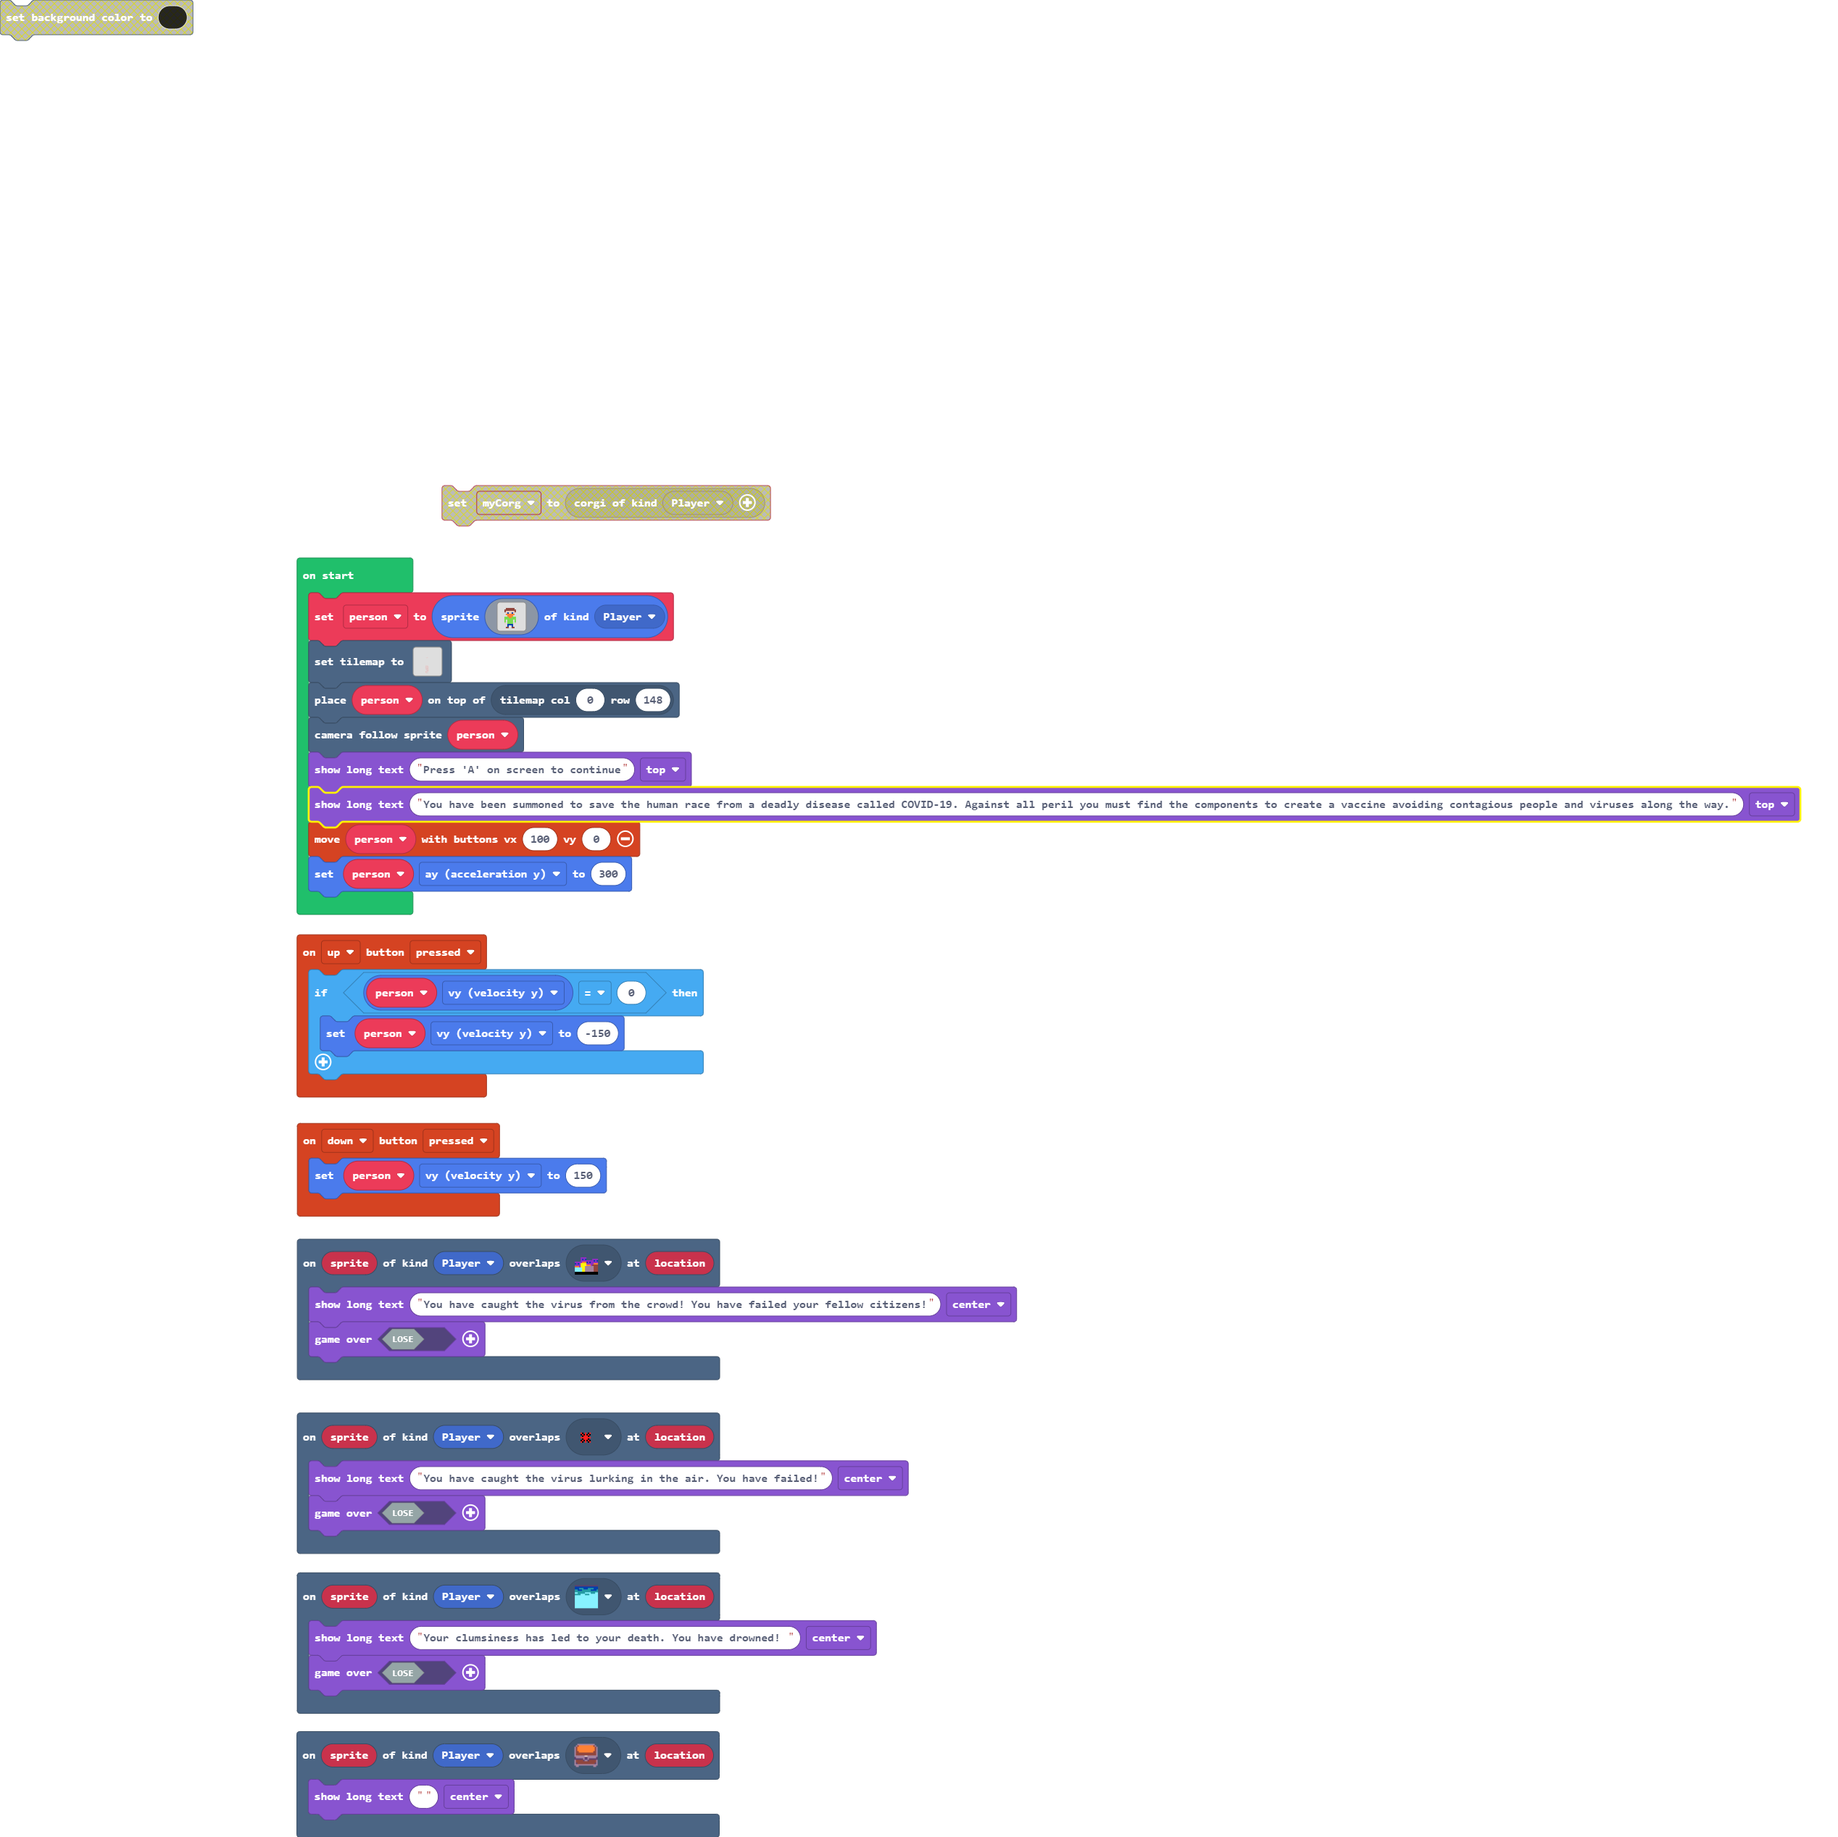
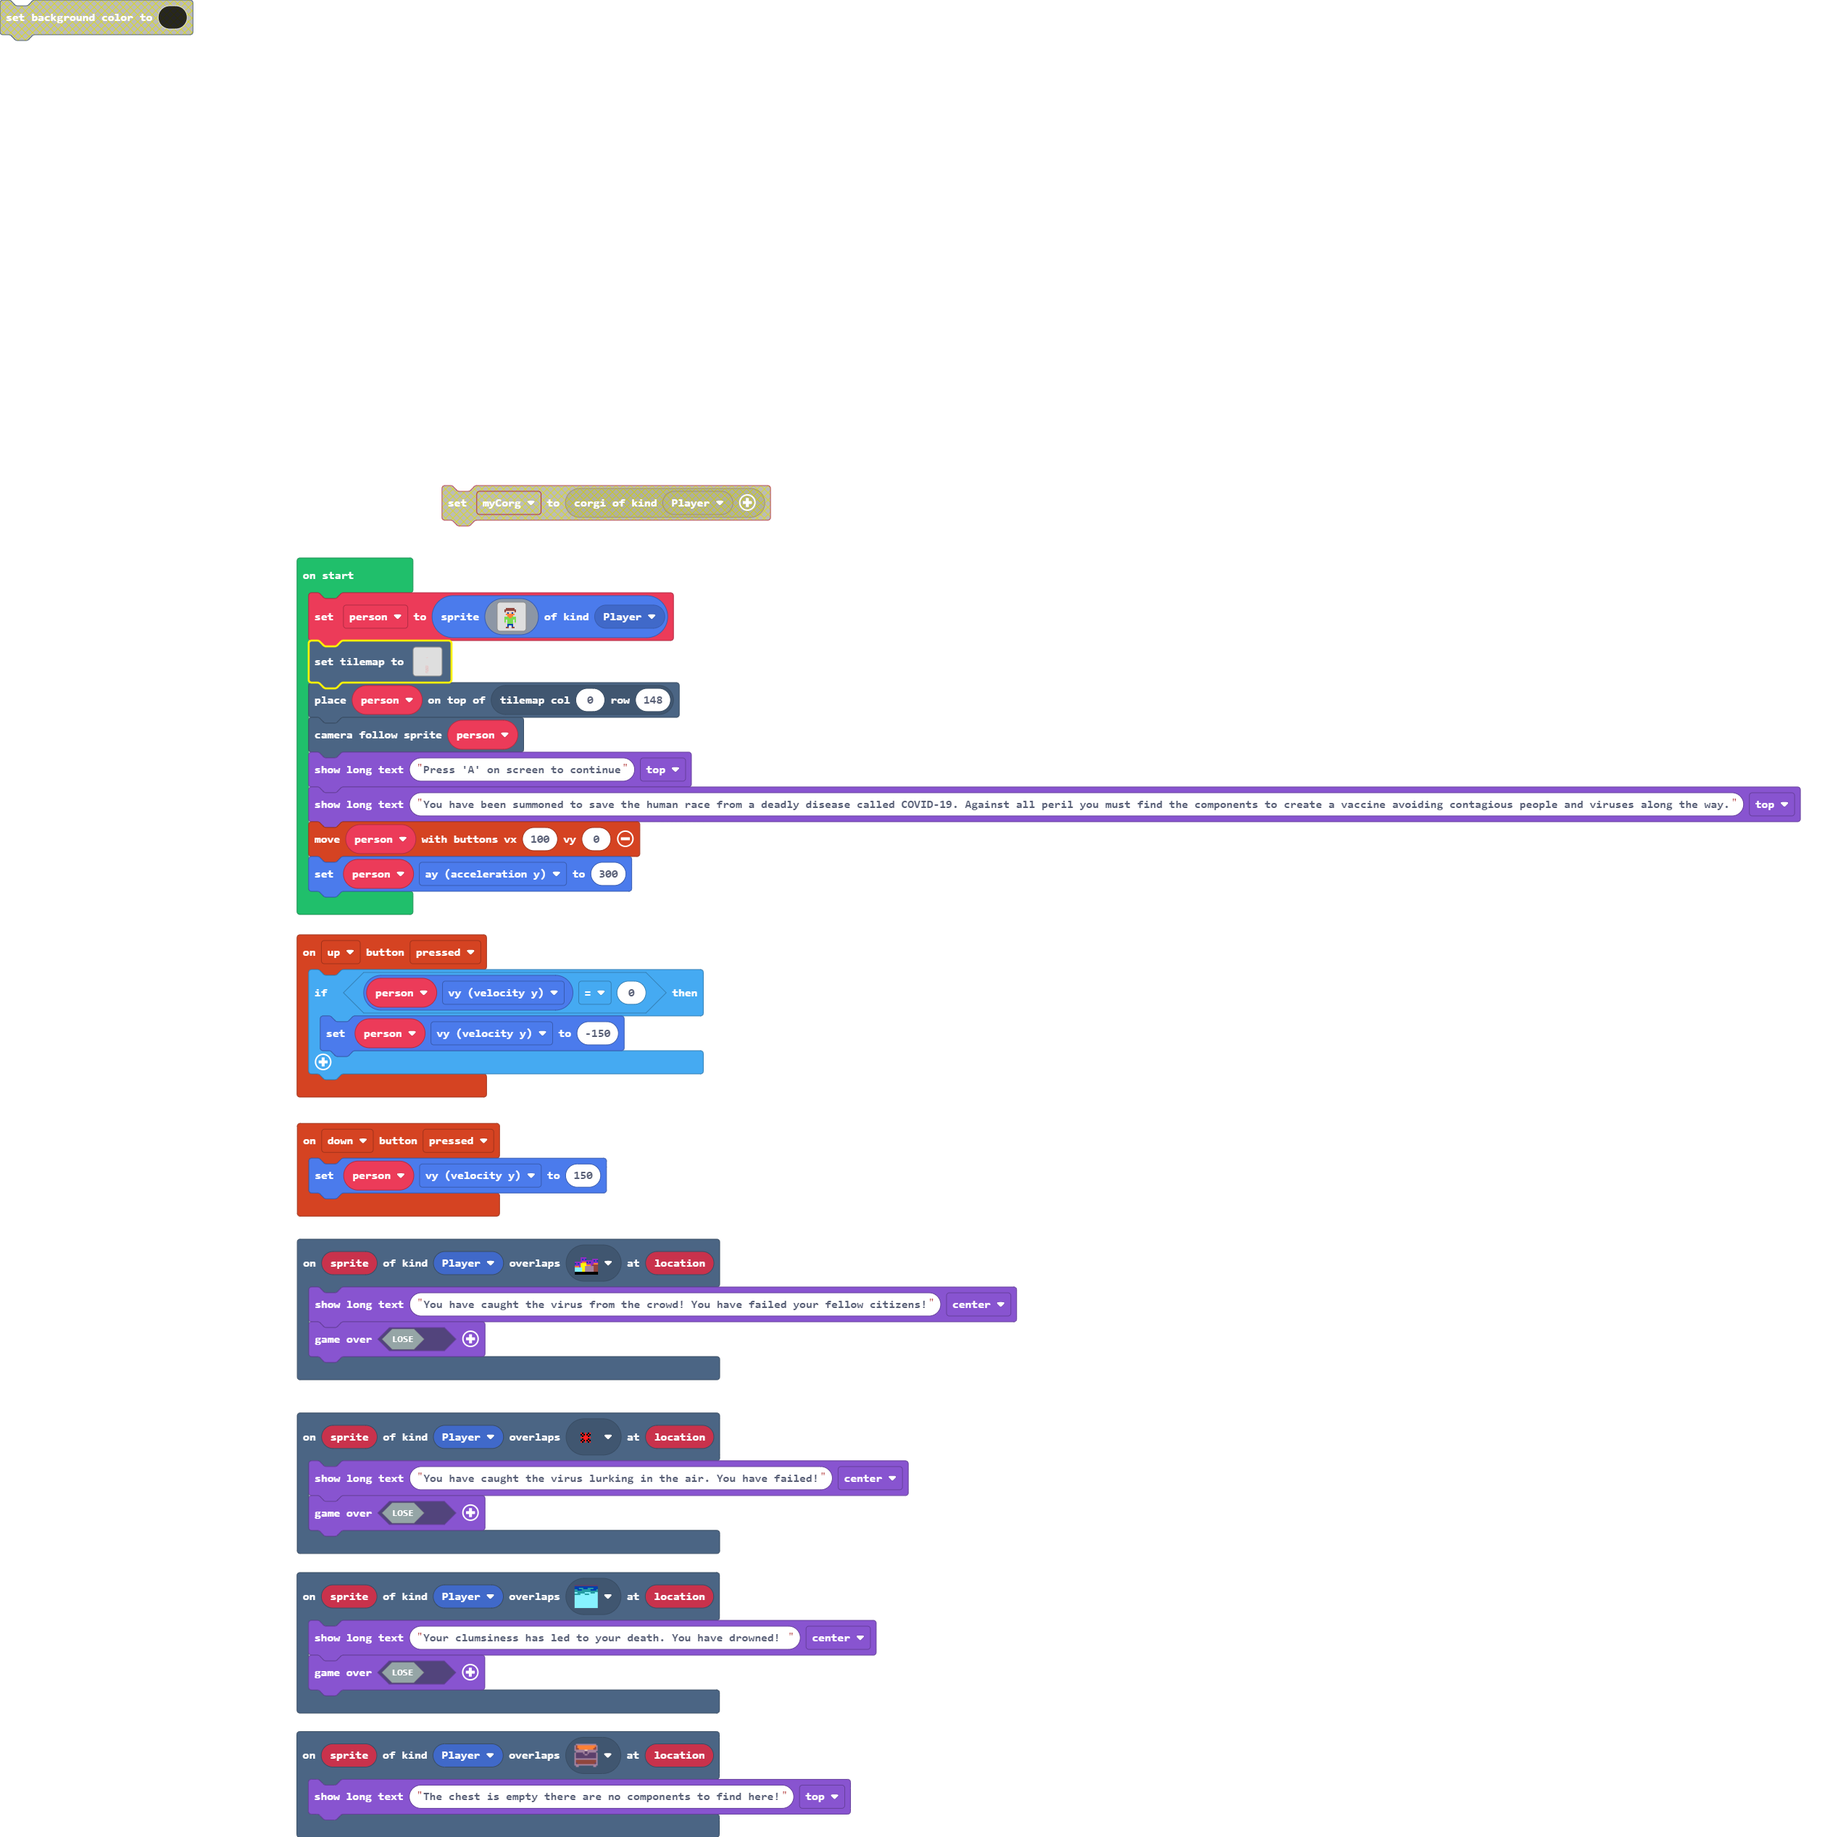
Map Change 04

Changed region(s): [[0.2181, 0.9661, 0.4673, 0.9972], [0.1869, 0.3428, 0.2492, 0.374]]

diff --git a/main.ts b/main.ts
@@ -10,9 +10,6 @@ controller.up.onEvent(ControllerButtonEvent.Pressed, function () {
         person.vy = -150
     }
 })
-scene.onOverlapTile(SpriteKind.Player, sprites.dungeon.chestClosed, function (sprite, location) {
-    game.showLongText("", DialogLayout.Center)
-})
 scene.onOverlapTile(SpriteKind.Player, sprites.dungeon.hazardWater, function (sprite, location) {
     game.showLongText("Your clumsiness has led to your death. You have drowned! ", DialogLayout.Center)
     game.over(false)
@@ -23,6 +20,9 @@ scene.onOverlapTile(SpriteKind.Player, myTiles.tile7, function (sprite, location
 })
 controller.down.onEvent(ControllerButtonEvent.Pressed, function () {
     person.vy = 150
+})
+scene.onOverlapTile(SpriteKind.Player, sprites.dungeon.chestOpen, function (sprite, location) {
+    game.showLongText("The chest is empty there are no components to find here!", DialogLayout.Top)
 })
 let person: Sprite = null
 person = sprites.create(img`
@@ -43,7 +43,7 @@ person = sprites.create(img`
     . . . . . 8 . . 8 . . . . . . . 
     . . . . e e . . e e . . . . . . 
     `, SpriteKind.Player)
-tiles.setTilemap(tiles.createTilemap(hex`14009600000000000000000000000000000000000000000000000000000000000000000000000000000000000000000000000000000000000000000000000000000000000000000000000000000000000000000000000000000000000000000000000000000000000000000000000000000000000000000000000000000000000000000000000000000000000000000000000000000000000000000000000000000000000000000000000000000000000000000000000000000000000000000000000000000000000000000000000000000000000000000000000000000000000000000000000000000000000000000000000000000000000000000000000000000000000000000000000000000000000000000000000000000000000000000000000000000000000000000000000000000000000000000000000000000000000000000001000000000000000000000000000000000000000000000000000000000000000000000000000000000000000000000000000000000000000000000000000000000000000000000000000000000000000000000000000000000000000000000000000000000000000000000000000000000000000000000000000000000000000000000000000000000000000000000000000000000000000000000000000000000000000000000000000000000000000000000000000000000000000000000000000000000000000000000000000000000000000000000000000000000000000000000000000000000000000000000000000000000000000000000000000000000000000000000000000000000000000000000000000000000000000000000000000000000000000000000000000000000000000000000000000000000000000000000000000000000000000000000000000000000000000000000000000000000000000000000000000000000000000000000000000000000000000000000000000000000000000000000000000000000000000000000000000000000000000000000000000000000000000000000000000000000000000000000000000000000000000000000000000000000000000000000000000000000000000000000000000000000000000000000000000000000000000000000000000000000000000000000000000000000000000000000000000000000000000000000000000000000000000000000000000000000000000000000000000000000000000000000000000000000000000000000000000000000000000000000000000000000000000000000000000000000000000000000000000202020202000000000000000000000000000000000000000002020200000000000000000000000000000000000000000202000000000000000000000000000000000000000200000000000000020202020202020202020202020000000000000000000000000000000000000000000000000000000000000000000000000000000000000000000000000000000000000000000000000000000000000000000000000000000000000000000000000000000000000000000000000000000000000000000000000000000000000000000000000000000000000000000000000000000000000000000000000000000000000000000000000000000000000000000000000000000000000000000000000000000000000000000000000000000000000000000000000000000000000000000000000000000000000000000000000000000000000000000000000000000000000000000000000000000000000000000000000000000000000000000000000000000000000000000000000000000000000000000000000000000000000000000000000000000000000000000000000000000000000000000000000000000000000000000000000000000000000000000000000000000000000000000000000000000000000000000000000000000000000000000000000000000000000000000000000000000000000000000000000000000000000000000000000000000000000000000000000000000000000000000000000000000000000000000000000000000000000000000000000000000000000000000000000000000000000000000000000000000000000000000000000000000000000000000000000000000000000000000000000000000000000000000000000000000000000000000000000000000000000000000000000000000000000000000000000000000000000000000000000000000000000000000000000000000000000000000000000000000000000000000000000000000000000000000000000000000000000000000000000000000000000000000000000000000000000000000000000000000000000000000000000000000000000000000000000000000000000000000000000000000000000000000000000000000000000000000000000000000000000000000000000000000000000000000000000000000000000000000000000000000000000000000000000000000000000000000000000000000000000000000000000000000000000000000000000000000000000000000000000000000000000000000000000000000000000000000000000000000000000000000000000000000000000000000000000000000000000000000000000000000000000000000000000000000000000000000000000000000000000000000000000000000000000000000000000000000000020202020202020202000002020202020202020200000000000000000000000000000000000000000000000000000000000000000000000000000000000000000000000000000000000000000000000000000000000000000000000000000000000000000000000000000000000000020202020202020202020202020202020202020000000000000000000000000000000000000000000002020202020202020202020202020202020202000000000000000000000000000000000000000002020202020202020202020202020202020000020000000000000000000000000000000000000202030600000300000000000000000000000202020202020202020203000000000000000202020202020202020202020202000000000202020202020202000000000000000000000000000000000000000000000200020002000200020002000200020002000000000000000000000000000000000000000000000200020002000200020002000200020002000200000000000000000000000005000000000000000205020002000205020002000200020502000200000000000000000000000000020202020202020202020002000200020002020202020000000602020200000003030303030302000000000002020202020002020202020202020200000002020202020202000000000000000000000002000000000000000202020202020202020202000000000000000000000000000000000000000202000002020202000000000000000000000000020202020200000000030000000000000000000000000500000000000202000000000000000000000500000000000200020200000000000000000500000000000200020002020000000000000500000000000200020002000202000000000500000000000200020002000200020200000000000000000200020002000200020002020000000000000200020002000200020002000202000000000200020002000200020002000200020200000202020302030203020302030203020302020200000202020202020202020202020202020202020200000000000000000000000000000000000002020200000000000000000000000000000000000202020200000005000000000000000000000000020202020200000000000002000000000000000002020202020000000000000000020000000000000200000202020202020200000000000200000000020600000200000000000000000000000002000000020000000000000000000000000000000000000000020000000202030302020000000000000200000000000002020202020202020000000200000000000000020202000000000000000200000000000202020202020404040404040404040404040404`, img`
+tiles.setTilemap(tiles.createTilemap(hex`14009600000000000000000000000000000000000000000000000000000000000000000000000000000000000000000000000000000000000000000000000000000000000000000000000000000000000000000000000000000000000000000000000000000000000000000000000000000000000000000000000000000000000000000000000000000000000000000000000000000000000000000000000000000000000000000000000000000000000000000000000000000000000000000000000000000000000000000000000000000000000000000000000000000000000000000000000000000000000000000000000000000000000000000000000000000000000000000000000000000000000000000000000000000000000000000000000000000000000000000000000000000000000000000000000000000000000000000001000000000000000000000000000000000000000000000000000000000000000000000000000000000000000000000000000000000000000000000000000000000000000000000000000000000000000000000000000000000000000000000000000000000000000000000000000000000000000000000000000000000000000000000000000000000000000000000000000000000000000000000000000000000000000000000000000000000000000000000000000000000000000000000000000000000000000000000000000000000000000000000000000000000000000000000000000000000000000000000000000000000000000000000000000000000000000000000000000000000000000000000000000000000000000000000000000000000000000000000000000000000000000000000000000000000000000000000000000000000000000000000000000000000000000000000000000000000000000000000000000000000000000000000000000000000000000000000000000000000000000000000000000000000000000000000000000000000000000000000000000000000000000000000000000000000000000000000000000000000000000000000000000000000000000000000000000000000000000000000000000000000000000000000000000000000000000000000000000000000000000000000000000000000000000000000000000000000000000000000000000000000000000000000000000000000000000000000000000000000000000000000000000000000000000000000000000000000000000000000000000000000000000000000000000000000000000000000000000202020202000000000000000000000000000000000000000002020200000000000000000000000000000000000000000202000000000000000000000000000000000000000200000000000000020202020202020202020202020000000000000000000000000000000000000000000000000000000000000000000000000000000000000000000000000000000000000000000000000000000000000000000000000000000000000000000000000000000000000000000000000000000000000000000000000000000000000000000000000000000000000000000000000000000000000000000000000000000000000000000000000000000000000000000000000000000000000000000000000000000000000000000000000000000000000000000000000000000000000000000000000000000000000000000000000000000000000000000000000000000000000000000000000000000000000000000000000000000000000000000000000000000000000000000000000000000000000000000000000000000000000000000000000000000000000000000000000000000000000000000000000000000000000000000000000000000000000000000000000000000000000000000000000000000000000000000000000000000000000000000000000000000000000000000000000000000000000000000000000000000000000000000000000000000000000000000000000000000000000000000000000000000000000000000000000000000000000000000000000000000000000000000000000000000000000000000000000000000000000000000000000000000000000000000000000000000000000000000000000000000000000000000000000000000000000000000000000000000000000000000000000000000000000000000000000000000000000000000000000000000000000000000000000000000000000000000000000000000000000000000000000000000000000000000000000000000000000000000000000000000000000000000000000000000000000000000000000000000000000000000000000000000000000000000000000000000000000000000000000000000000000000000000000000000000000000000000000000000000000000000000000000000000000000000000000000000000000000000000000000000000000000000000000000000000000000000000000000000000000000000000000000000000000000000000000000000000000000000000000000000000000000000000000000000000000000000000000000000000000000000000000000000000000000000000000000000000000000000000000000000000000000000000000000000000000000000000000000000000000000000000000000000000000000000000000000000000020202020202020202000002020202020202020200000000000000000000000000000000000000000000000000000000000000000000000000000000000000000000000000000000000000000000000000000000000000000000000000000000000000000000000000000000000000020202020202020202020202020202020202020000000000000000000000000000000000000000000002020202020202020202020202020202020202000000000000000000000000000000000000000002020202020202020202020202020202020000020000000000000000000000000000000000000202030700000300000000000000000000000202020202020202020203000000000000000202020202020202020202020202000000000202020202020202000000000000000000000000000000000000000000000200020002000200020002000200020002000000000000000000000000000000000000000000000200020002000200020002000200020002000200000000000000000000000005000000000000000205020002000205020002000200020502000200000000000000000000000000020202020202020202020002000200020002020202020000000602020200000003030303030302000000000002020202020002020202020202020200000002020202020202000000000000000000000002000000000000000202020202020202020202000000000000000000000000000000000000000202000002020202000000000005000000000000020202020200000000030005000000050000000005000000000000000202000000050000000005000000000000000200020200000000000005000000000000000200020002020005000500000000000000000200020002000202000000000000000000000200020002000200020200000000000000000200020002000200020002020000000000000200020002000200020002000202000000000200020002000200020002000200020200000202020302030203020302030203020302020200000202020202020202020202020202020202020200000000000000000000000000000000000002020200000000000000000000000000000000000202020200000005000000000000000000000000020202020200000000000002000000000000000002020202020000000000000000020000000000000200000202020202020200000000000200000000020700000200000000000000000000000002000000020000000000000000000000000000000000000000020000000202030302020000000000000200000000000002020202020202020000000200000000000000020202000000000000000200000000000202020202020404040404040404040404040404`, img`
     ....................
     ....................
     ....................
@@ -194,7 +194,7 @@ tiles.setTilemap(tiles.createTilemap(hex`140096000000000000000000000000000000000
     .....22222222...2...
     ....222.......2.....
     222222..............
-    `, [myTiles.transparency16,sprites.dungeon.floorLight0,myTiles.tile5,myTiles.tile7,sprites.dungeon.hazardWater,myTiles.tile3,sprites.dungeon.chestClosed], TileScale.Sixteen))
+    `, [myTiles.transparency16,sprites.dungeon.floorLight0,myTiles.tile5,myTiles.tile7,sprites.dungeon.hazardWater,myTiles.tile3,sprites.dungeon.chestClosed,sprites.dungeon.chestOpen], TileScale.Sixteen))
 tiles.placeOnTile(person, tiles.getTileLocation(0, 148))
 scene.cameraFollowSprite(person)
 game.showLongText("Press 'A' on screen to continue", DialogLayout.Top)
